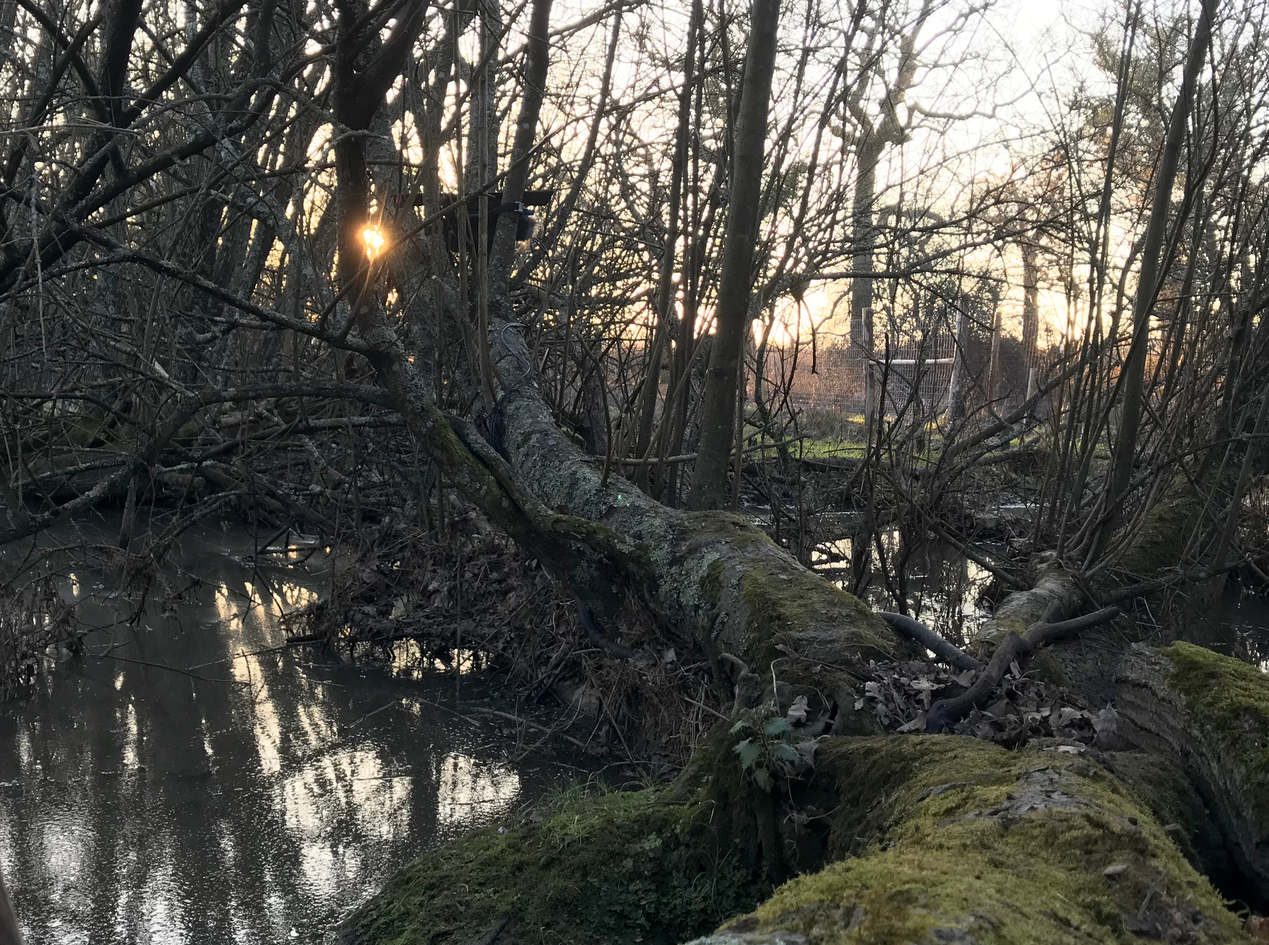
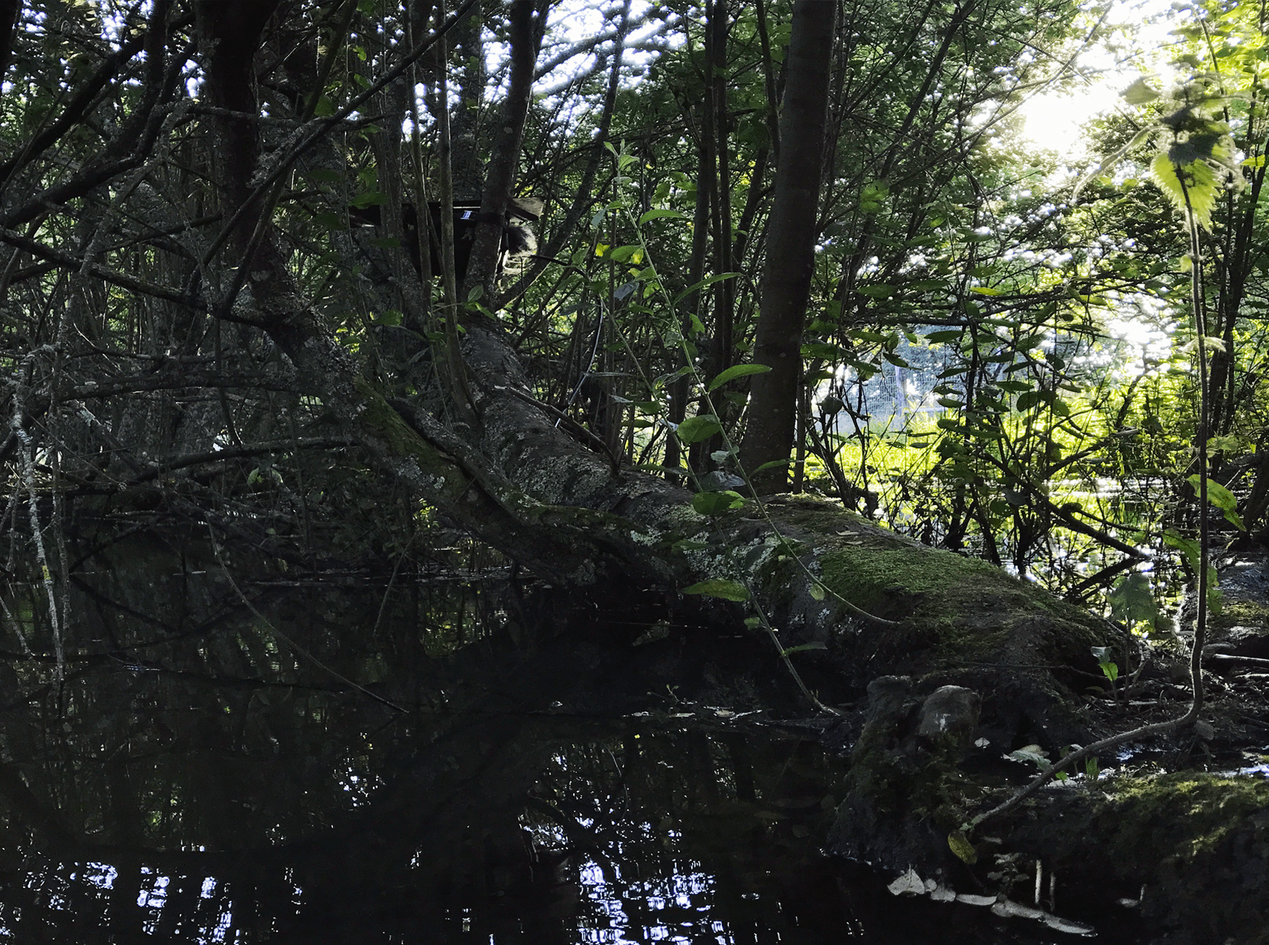
updated background images
(renamed old to winter_day etc)

diff --git a/scripts/banner-image.js b/scripts/banner-image.js
@@ -56,6 +56,7 @@ function loadBanner(elem){
 		imageUrl = "dusk.jpg";
 	}
 
-	elem.src = "https://wilding.radio/assets/img/knepp/"+imageUrl;
+	// elem.src = "https://wilding.radio/assets/img/knepp/"+imageUrl;
+	elem.src = "./assets/img/knepp/"+imageUrl;
 	console.log("Loaded background image: "+imageUrl);
 }
